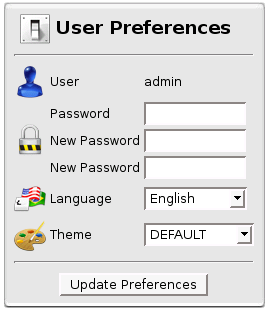
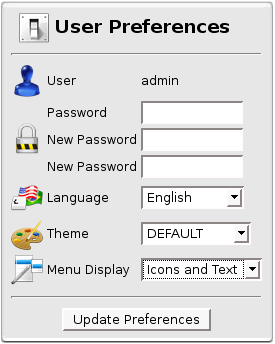
Added the 'Menu Display' configuration feature

Changed region(s): [[0.0, 0.0, 1.0, 1.0]]

diff --git a/usr/share/octopussy/HELP/en/user_prefs.html b/usr/share/octopussy/HELP/en/user_prefs.html
@@ -9,7 +9,7 @@ Here you can set your User Preferences.<br>
 <div align="center"><img src="../IMG/octo_user_preferences.png"></div>
 <div align="center"><i><font size="-1">User Preferences Box</font></i></div>
 <br>
-You can change your Password <img src="../IMG/bt_locked.png" border="0">, your Language <img src="../IMG/bt_keyboard_layout.png" border="0"> and your Theme <img src="../IMG/bt_theme.png" border="0">.<br><br>
+You can change your <b>Password</b> <img src="../IMG/bt_locked.png" border="0">, your <b>Language</b> <img src="../IMG/bt_keyboard_layout.png" border="0">, your <b>Theme</b> <img src="../IMG/bt_theme.png" border="0"> and the way your <b>Menu</b> <img src="../IMG/bt_menu_config.png" border="0"> looks.<br><br>
 If your language is not supported, feel free to contribute !<br>
 If you want to improve Theme, you can contribute as well !<br>
 More information in <a href="contribution.html">Contribution</a> page.
